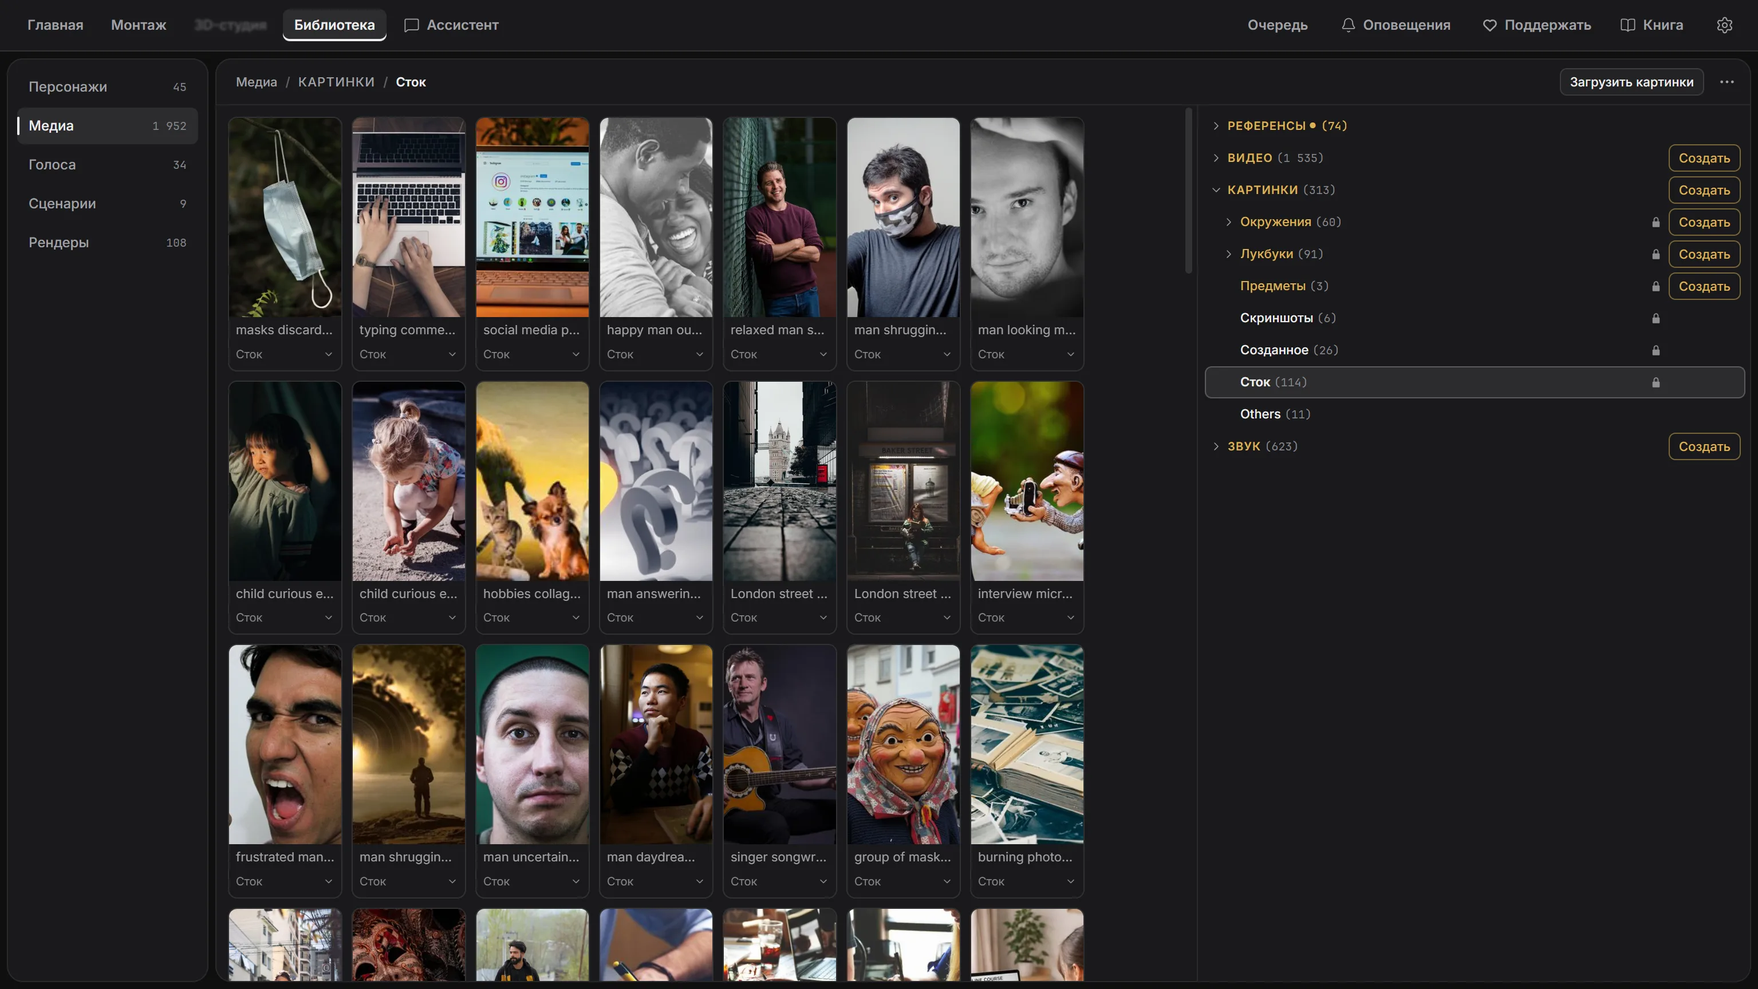
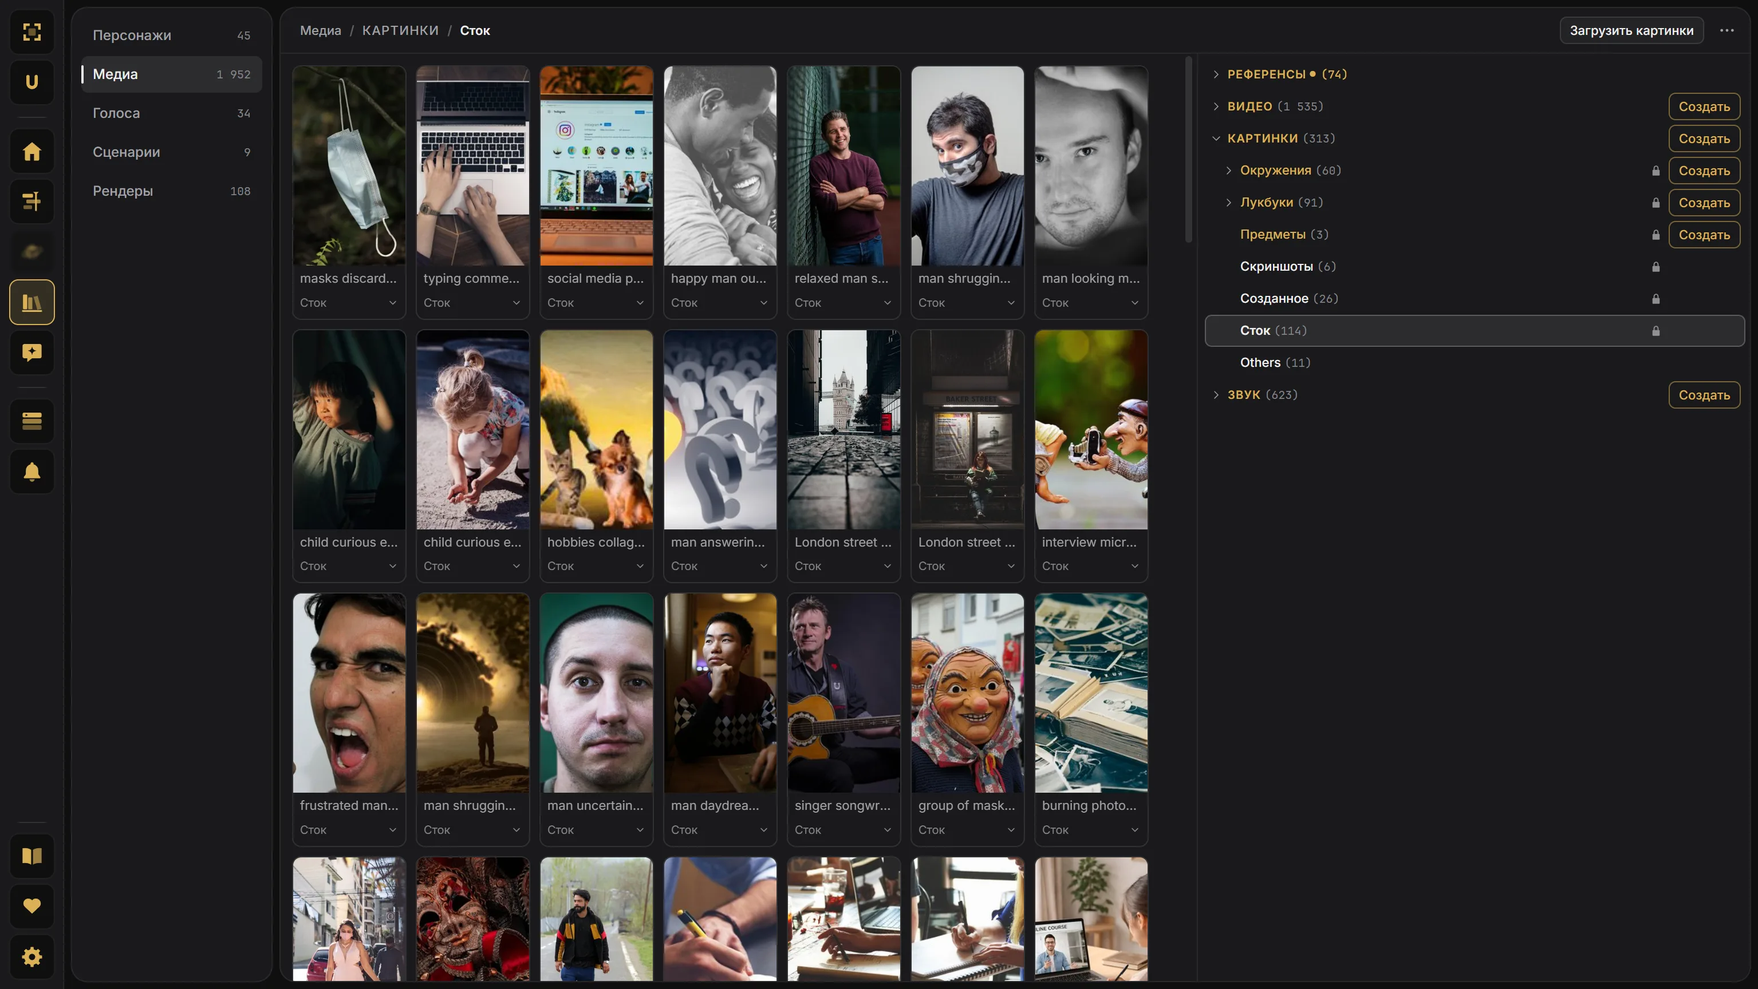
V97 block 3: the book in both languages says the side menu - chapter 2 Around the app with the folded and unfolded menu, chapters 1, 4, 9, 11; the pictures that showed the top strip shot again in both books and the README; the shots window takes the app preload so the full screen tile is drawn; ARCH

diff --git a/public/js/assistant/assistant.js b/public/js/assistant/assistant.js
@@ -1,5 +1,5 @@
 // ════════════════════════════════════════════════════════════════════════════
-// THE ASSISTANT - a chat with a model on every page but the 3D Studio's, opened by its button in the top strip
+// THE ASSISTANT - a chat with a model on every page but the 3D Studio's, opened by its tile in the side menu
 // (js/app-nav.js loads this module at the first press). A generation's window (js/gen-window.js openFrame, 1280×800,
 // moved and stretched, kept under `assistant`), the page under it darkened.
 //
@@ -88,7 +88,7 @@ const S = {
   loading: false,
 };
 let W = null;              // the open window's parts
-let _onOpenChange = null;  // the strip's button follows the window
+let _onOpenChange = null;  // the menu's tile follows the window
 let _poll = 0;
 
 // ── Money and time in words ─────────────────────────────────────────────────
@@ -117,7 +117,7 @@ function when(iso) {
 /** Whether the window is open now. */
 export const isOpen = () => !!(W && W.win.alive());
 
-/** `fn(open)` is told when the window opens and closes - the strip's button lights while it is open. */
+/** `fn(open)` is told when the window opens and closes - the menu's tile lights while it is open. */
 export function onOpenChange(fn) { _onOpenChange = fn; }
 
 /** Opens the window (or, open already, puts the cursor in its field). */

diff --git a/public/merge-v3.html b/public/merge-v3.html
@@ -47,17 +47,16 @@
 </head>
 <body>
 
-<!-- Which entry is lit is read from the address by js/app-nav.js, so this markup
-     does not change when the page moves from /merge-v3 to /merge. -->
+<!-- The app's side menu is built from these links by js/app-nav.js; which entry is lit is read from the address, so
+     this markup does not change when the page moves from /merge-v3 to /merge. -->
 <nav class="sv3-nav">
   <a href="/merge" data-tc="nav">Merge</a>
   <a href="/3d">3D Studio</a>
   <a href="/library">Library</a>
   <span class="sp"></span>
-  <!-- The render queue, up here beside Alerts: both are readings about
-       work in flight, and neither belongs to the project the bar below is about. It opens the
-       queue's window (js/merge-v3/queue.js). The bell and Admin are put in after it
-       by js/app-nav.js, so the right-hand end reads Queue, the wait, Alerts, Donate, Guide and the gear of Admin. -->
+  <!-- The render queue, in the menu beside Alerts: both are readings about work in flight, and neither belongs to the
+       project the bar below is about. It opens the queue's panel (js/merge-v3/queue.js); js/app-nav.js dresses it as
+       the side menu's tile and puts Alerts and the rest in. -->
   <button class="sv3-navbtn" id="mv3-queue" type="button"
           title="Render queue - projects waiting to be rendered">Queue</button>
 </nav>

diff --git a/tools/guide-shots.js b/tools/guide-shots.js
@@ -299,8 +299,11 @@ function camera() {
   app.commandLine.appendSwitch('autoplay-policy', 'no-user-gesture-required');
   app.setPath('userData', job.profile);
   app.whenReady().then(async () => {
+    // The app's own preload, so a page draws what it draws in the app's window (the side menu's full screen tile); the
+    // window is never in full screen here, and what a page asks of it (`ugc-window`) is not done.
+    require('electron').ipcMain.handle('ugc-window-full', () => false);
     const win = new BrowserWindow({ width: job.size[0], height: job.size[1], useContentSize: true, show: false, paintWhenInitiallyHidden: true,
-      frame: false, webPreferences: { backgroundThrottling: false } });
+      frame: false, webPreferences: { backgroundThrottling: false, preload: path.join(APP, 'desktop', 'preload.js') } });
     win.webContents.setAudioMuted(true);
     const wc = win.webContents;
     const js = (code) => wc.executeJavaScript(code, true);

diff --git a/public/js/assistant/guide.js b/public/js/assistant/guide.js
@@ -1,5 +1,5 @@
 // ════════════════════════════════════════════════════════════════════════════
-// THE GUIDE - the app's book in a window, opened by "Guide" in the top strip (js/app-nav.js), by Home's Guide block and its
+// THE GUIDE - the app's book in a window, opened by "Guide" in the side menu (js/app-nav.js), by Home's Guide block and its
 // first step (js/home/main.js), by "Guide" in the assistant's Help and by "Guide: <section>" under a Help answer. The book
 // needs no key: nothing here asks for one. A generation's window (js/gen-window.js openFrame, 1280×800, moved and
 // stretched, kept under `guide`) over the page.

diff --git a/public/js/merge-v3/chat-shell.js b/public/js/merge-v3/chat-shell.js
@@ -180,7 +180,7 @@ export function switchRow(word, on, off, onChange) {
   return row;
 }
 /** The almanac of a chat that has none yet, at the foot of the column: the video chat's gold button, blurred and dimmed
- *  as the strip's 3D Studio entry (css/app-nav.css .is-soon), not pressed, "In development" under the pointer. */
+ *  as the menu's 3D Studio entry (css/app-nav.css .is-soon), not pressed, "In development" under the pointer. */
 export function almanacSoon() {
   const b = el('button', 'mv3-vc-almanac u-btn is-l is-gen is-soon', I18N.t('Almanac'));
   b.type = 'button';

diff --git a/public/js/i18n/ru/common.js b/public/js/i18n/ru/common.js
@@ -1,8 +1,8 @@
-/* The words shared by every page: the top strip, the notices, the questions, Alerts and the render queue, the language
+/* The words shared by every page: the menu, the notices, the questions, Alerts and the render queue, the language
    switch and its restart, Admin's own markup. */
 
 export default {
-  // The top strip (public/js/app-nav.js, the pages' markup)
+  // The menu (public/js/app-nav.js, the pages' markup): the side menu, the 3D Studio's top strip
   'Home': 'Главная',
   'nav::Merge': 'Монтаж',
   '3D Studio': '3D-студия',

diff --git a/public/library.html b/public/library.html
@@ -35,8 +35,8 @@
 </head>
 <body>
 
-<!-- Which entry is lit comes from the address (js/app-nav.js), so this markup does not
-     change if the page moves. -->
+<!-- The app's side menu is built from these links by js/app-nav.js; which entry is lit comes from the address, so
+     this markup does not change if the page moves. -->
 <nav class="sv3-nav">
   <a href="/merge" data-tc="nav">Merge</a>
   <a href="/3d">3D Studio</a>

diff --git a/public/home.html b/public/home.html
@@ -21,7 +21,8 @@
 </head>
 <body>
 
-<!-- Which entry is lit comes from the address (js/app-nav.js); Home itself is put first by it on every page. -->
+<!-- The app's side menu is built from these links by js/app-nav.js, which puts Home and the rest in; which entry is lit
+     comes from the address. -->
 <nav class="sv3-nav">
   <a href="/merge" data-tc="nav">Merge</a>
   <a href="/3d">3D Studio</a>

diff --git a/public/guide/ru/02-around-the-app.md b/public/guide/ru/02-around-the-app.md
@@ -1,26 +1,33 @@
 # Обзор приложения
 
-Четыре страницы, одна полоса наверху каждой и окна, которые открываются поверх них. Эта глава — карта: где что находится
+Четыре страницы, одно меню у левого края каждой и окна, которые открываются поверх них. Эта глава — карта: где что находится
 и как части приложения ведут себя везде.
 
-![Верхняя полоса](shots/around-strip.webp)
+![Боковое меню](shots/around-menu.webp)
 
-## Верхняя полоса
+## Боковое меню
 
-На каждой странице одна и та же полоса.
+На каждой странице одно и то же меню у левого края окна: столбик квадратных плиток, по одной на каждое место. Задержите
+на нём курсор — оно раскроется поверх страницы, у каждой плитки появится название, а страница останется на месте.
+Свернётся оно само через секунду после того, как курсор уйдёт, или сразу — кнопкой **Свернуть** в его верху.
 
+![Боковое меню раскрыто](shots/around-menu-open.webp)
+
+- В самом верху: **На весь экран** — в полноэкранном режиме она называется **В окно**, как и F11; под ней значок
+  приложения, который в раскрытом меню становится кнопкой **Свернуть**.
 - **Главная** — стартовая страница: быстрые старты, генераторы, ваши последние проекты, ваши ключи.
 - **Монтаж** — редактор: каждый проект, его таймлайн и его рендер.
 - **3D-студия** — размыта: она ещё строится.
 - **Библиотека** — всё, что хранит приложение: персонажи, медиа, голоса, сценарии, рендеры.
 - **Ассистент** — чат с ИИ: **Идеи** — придумывать видео и промпты, **Помощь** — спросить, как здесь что-то сделать.
-- Справа: **Очередь** (рендеры, которые ждут запуска), ожидание (сколько ещё займёт идущая работа), **Оповещения**
-  (каждая генерация), **Поддержать** (страница, где можно поблагодарить автора приложения), **Книга** (эта книга — на
-  каждой странице, ключ не нужен) и последней — шестерёнка **Настроек** (ключи и параметры; её название видно под
-  курсором). Там же появляется чип **Обновление …**, когда готова новая версия.
-- У самого правого края, в полноэкранном режиме: свернуть, в окно, выйти.
+- **Очередь** (рендеры, которые ждут запуска) и **Оповещения** (каждая генерация): число на плитке — сколько ждёт или
+  идёт, а под названием Оповещений — сколько ещё займёт идущая работа.
+- **Обновление …** — золотая плитка над нижними, когда готова новая версия.
+- Внизу: **Книга** (эта книга — на каждой странице, ключ не нужен), **Поддержать** (страница, где можно поблагодарить
+  автора приложения) и **Настройки** (ключи и параметры).
 
-Страница, на которой вы находитесь, подсвечена.
+Страница, на которой вы находитесь, — в золотой рамке. Не во весь экран у окна свои кнопки Windows; во весь экран их
+возвращает F11 или **В окно**, а Alt+F4 закрывает приложение.
 
 ## Главная
 
@@ -62,10 +69,10 @@
 Каждая платная генерация — картинка, клип, кадры и клипы говорящей головы, музыка, звуки, персонаж, окружение, лукбук,
 длинное видео, превращённое в нарезку, — это строка **Оповещений** с того момента, как вы нажали её кнопку.
 
-![Список Оповещений](shots/around-alerts.webp)
+![Список Оповещений рядом с его плиткой](shots/around-alerts.webp)
 
-- Строка в работе называет свой этап («Рисую место…», «kie.ai делает клип») и сколько осталось; ожидание в верхней
-  полосе складывает их.
+- Строка в работе называет свой этап («Рисую место…», «kie.ai делает клип») и сколько осталось; плитка Оповещений в меню
+  складывает их.
 - Работа принадлежит приложению, а не странице: уйдите со страницы, закройте окно — результат всё равно будет скачан и
   разложен туда, где ему место.
 - У готовой строки есть **Открыть** — кнопка ведёт туда, куда ушёл результат, и файл там обведён.

diff --git a/public/guide/02-around-the-app.md b/public/guide/02-around-the-app.md
@@ -1,26 +1,33 @@
 # Around the app
 
-Four pages, one strip on top of each, and windows that open over them. This chapter is the map: where things are and how
+Four pages, one menu along the left edge of each, and windows that open over them. This chapter is the map: where things are and how
 the parts of the app behave everywhere.
 
-![The top strip](shots/around-strip.webp)
+![The side menu](shots/around-menu.webp)
 
-## The top strip
+## The side menu
 
-Every page has the same strip.
+Every page has the same menu along the left edge of the window: a column of square tiles, one for each place. Rest the
+pointer on it and it unfolds over the page, each tile with its name - the page stays where it is. It folds again a second
+after the pointer leaves it, or at once by **Collapse** at its top.
 
+![The side menu, unfolded](shots/around-menu-open.webp)
+
+- At the top: **Full screen** - pressed in full screen it reads **Into a window**, as F11 does; under it the app's sign,
+  which is **Collapse** while the menu is unfolded.
 - **Home** - the start page: quick starts, the generators, your latest projects, your keys.
 - **Merge** - the editor: every project, its timeline and its render.
 - **3D Studio** - blurred: it is still being built.
 - **Library** - everything the app keeps: characters, media, voices, scenarios, renders.
 - **Assistant** - a chat with an AI: **Ideas** to brainstorm videos and prompts, **Help** to ask how to do something here.
-- On the right: **Queue** (renders waiting to run), the wait (how long the work in flight still takes), **Alerts** (every
-  generation), **Donate** (a page to thank the app's author), **Guide** (this book - on every page, with no key needed),
-  and last the gear of **Admin** (keys and settings; its name shows under the pointer). An **Update …** chip appears there
-  when a new version is ready.
-- At the far right, in full screen: minimise, into a window, quit.
+- **Queue** (renders waiting to run) and **Alerts** (every generation): a number on the tile says how many are waiting
+  or running, and under Alerts' name, how long the work in flight still takes.
+- **Update …** - a gold tile over the bottom ones when a new version is ready.
+- At the bottom: **Guide** (this book - on every page, with no key needed), **Donate** (a page to thank the app's author)
+  and **Admin** (keys and settings).
 
-The page you are on is lit.
+The page you are on has a gold frame. Out of full screen the window has Windows' own buttons; in full screen F11 or
+**Into a window** brings them back, and Alt+F4 closes the app.
 
 ## Home
 
@@ -60,9 +67,10 @@ The app's windows open over the page and darken it, so it is clear what has your
 Every paid generation - a picture, a clip, a talking head's frames and clips, music, sounds, a character, an environment,
 a lookbook, a long video turned into highlights - is a row of **Alerts** from the moment you press its button.
 
-![The Alerts list](shots/around-alerts.webp)
+![The Alerts list beside its tile](shots/around-alerts.webp)
 
-- A running row says its stage ("drawing the place…", "rendering") and how long is left; the strip's wait sums them up.
+- A running row says its stage ("drawing the place…", "rendering") and how long is left; Alerts' tile in the menu sums
+  them up.
 - The work belongs to the app, not to the page: leave the page, close the window - the result is still downloaded and
   filed where it belongs.
 - A finished row has **open** - it leads to the place the result went, the file outlined.

diff --git a/public/guide/01-getting-started.md b/public/guide/01-getting-started.md
@@ -21,8 +21,8 @@ anything is paid.
 
 ## The first start
 
-**UGC Studio.exe** opens the app in its own window, filling the screen. **F11** (or the button at the right end of the top
-strip) switches to full screen and back.
+**UGC Studio.exe** opens the app in its own window, filling the screen. **F11** (or **Full screen** at the top of the side
+menu) switches to full screen and back.
 
 Everything the app makes or keeps is in its **library** - a folder named `library` beside the program. Projects,
 characters, pictures, clips, music, renders, the app's lists and backups all live there, and nothing is written anywhere
@@ -31,13 +31,13 @@ else. To move your work to another computer, copy that folder.
 Only one window of the app can be open on one library. Closing it while a render is running asks first.
 
 This guide is there from the first start, before any key is added: the **Guide** block on Home - first in the right
-column - and **Guide** at the right end of the top strip, on every page. Its window opens over the page and remembers
+column - and **Guide** at the bottom of the side menu, on every page. Its window opens over the page and remembers
 where you stopped.
 
 ## The keys
 
 A key is how a service knows the work is yours and bills you for it. Keys are entered on **Admin → API keys** (Admin is the
-gear at the right end of the top strip): paste a key, press **Save**, and the app asks the service whether the key works - a green line under it means yes, a red one says
+gear at the bottom of the side menu): paste a key, press **Save**, and the app asks the service whether the key works - a green line under it means yes, a red one says
 why not. **Check again** asks every service anew. A key is shown as its first six and last four characters only.
 
 ![Admin → API keys](shots/start-admin-keys.webp)
@@ -113,7 +113,7 @@ take it (**Restart now?**), and the guide follows.
 
 ## Updates
 
-When a new version of the app is ready, a gold chip **Update …** appears in the top strip, left of Alerts. Press it to
+When a new version of the app is ready, a gold tile **Update …** appears in the side menu, above the Guide. Press it to
 see what is new and **Restart and update**: the app closes, the new version opens on the same library. **Admin → This
 computer → Check now** asks at once; otherwise the app asks by itself a minute after it starts and every six hours.
 
@@ -121,6 +121,6 @@ Before the first start of a new version the app copies every list of your librar
 
 ## Where to go next
 
-- **Around the app** - the top strip, Home, the windows, Alerts and the Queue.
+- **Around the app** - the side menu, Home, the windows, Alerts and the Queue.
 - **Merge** - the editor every project ends up in.
 - **Talking head**, **Voiceover**, **Highlights** - one chapter each.
